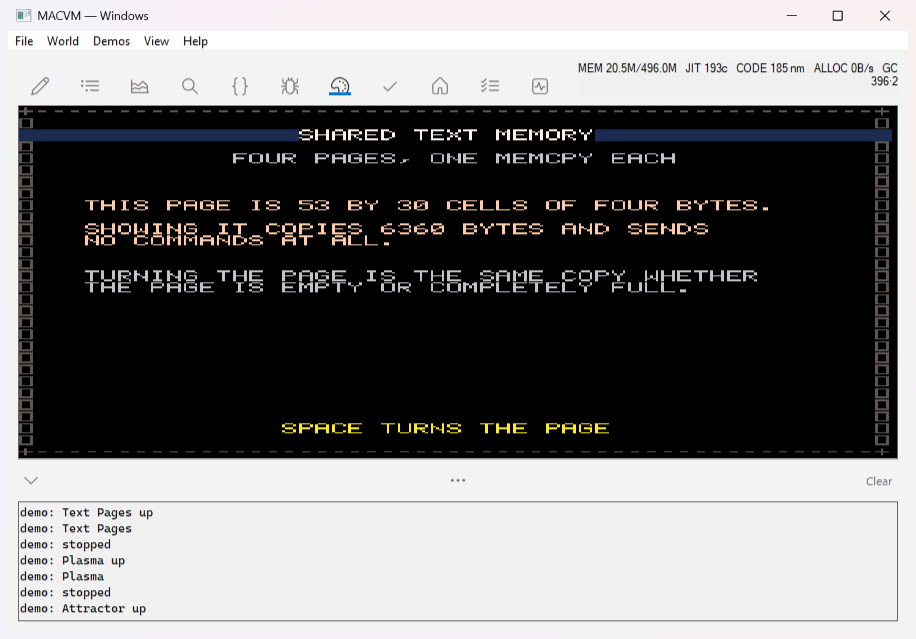
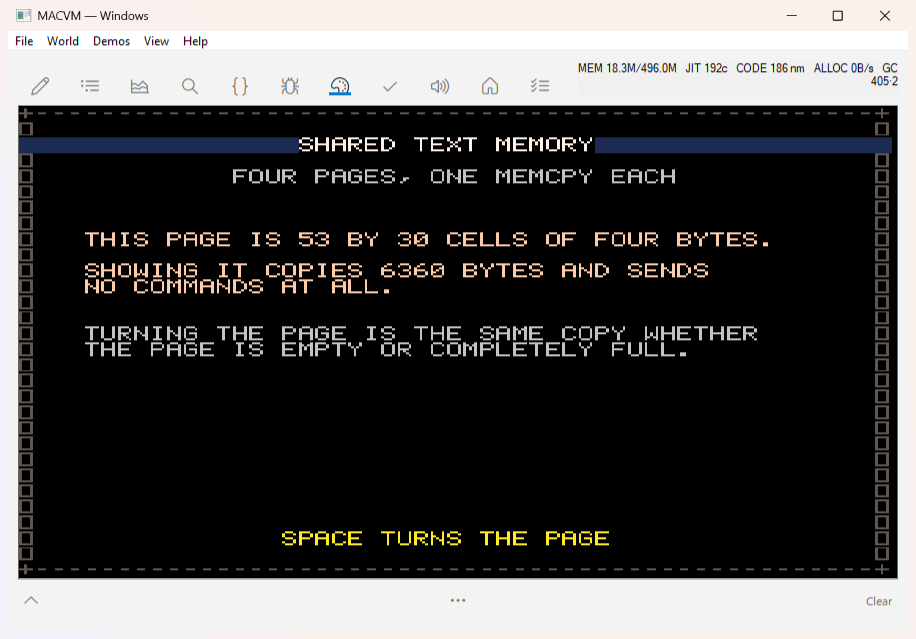
WG13: reset the pane properly, and make overscan mean something
Reported: demos start black, or in the corner of a larger pane, after the
previous one. Both true, and a third defect underneath them.

THE PANE IS NOW NEW AT EVERY LAUNCH. W13 wiped the layers but deliberately
kept the SIZE, reasoning that the pane is the console's screen rather than
the game's. That was wrong for this corpus: only two demos ask for a shape —
galaxigans wants 640x360, Plasma opens 320x240 direct — and every other one
draws for the DEFAULT pane without ever saying so. So after galaxigans, Life
laid an 80x60 grid meant for 320x240 across a 640x360 screen and sat in the
corner. The wipe now puts the shape back to 320x240 and the palette back to
the sixteen colours `GamePane new` installs (upstream's `defaultPalette`,
transcribed). The host seeds those as well as the guest because of the gap:
a wiped pane is on screen for however many frames pass before the new demo's
`GamePane new` runs, and an all-black palette makes that gap look like a
failure. Screen memory is dropped entirely rather than blanked, so a demo
that never opens a direct plane finds `screenMemory` nil exactly as it would
on a fresh pane.

AND `overscan:` NEVER WORKED. The arm stored the margin and returned;
nothing was reallocated. Minesweeper asks for a 16-pixel border, draws into a
352x272 buffer and blits it — so 352-wide rows were being copied into a
320-wide plane, and every row slipped 32 pixels further left than the one
[…]

diff --git a/win_gui/src/game.rs b/win_gui/src/game.rs
@@ -53,9 +53,15 @@ const DEF_H: u32 = 240;
 
 /// The frame the primary draws into and the pump uploads.
 pub struct GameFrame {
+    /// The WORLD's shape — what `indices` is, and what the guest draws into.
+    /// Equal to the viewport unless a game asked for `overscan:`.
     pub w: u32,
     pub h: u32,
-    /// One palette index per pixel, row-major, `w * h`.
+    /// The VIEWPORT's shape — what is actually shown. `scrollTo:x:y:` picks
+    /// which part of the world lands here.
+    pub view_w: u32,
+    pub view_h: u32,
+    /// One palette index per pixel, row-major, `w * h` — WORLD-sized.
     pub indices: Vec<u8>,
     /// 256 BGRA words — the renderer's format, so the upload is a memcpy.
     pub palette: Vec<u32>,
@@ -72,6 +78,8 @@ impl GameFrame {
         GameFrame {
             w,
             h,
+            view_w: w,
+            view_h: h,
             indices: vec![0u8; (w * h) as usize],
             // Opaque black, so an index nobody set is visibly empty rather
             // than whatever the allocator left behind.
@@ -79,6 +87,28 @@ impl GameFrame {
             text: TextOverlay::new(w, h),
             generation: 0,
         }
+    }
+
+    /// **`overscan:`** — grow the WORLD by `margin` pixels on every side while
+    /// the viewport stays as it is, so a game can scroll a picture larger than
+    /// the screen.
+    ///
+    /// THE PLANE IS REALLOCATED, and that is the whole of it. Storing the
+    /// margin and leaving the buffer alone is what broke Minesweeper for the
+    /// life of this port: it asks for a 16-pixel border, draws into a 352x272
+    /// buffer, and blits it — so 352-wide rows were being copied into a
+    /// 320-wide plane and every row slipped 32 pixels further left than the
+    /// one above it. The board sheared, and the numbers inside the tiles,
+    /// which are pixels and not text, sheared with it.
+    fn set_overscan(&mut self, margin: u32) {
+        let w = self.view_w + margin * 2;
+        let h = self.view_h + margin * 2;
+        if w == self.w && h == self.h {
+            return;
+        }
+        self.w = w;
+        self.h = h;
+        self.indices = vec![0u8; (w * h) as usize];
     }
 
     fn idx(&self, x: i64, y: i64) -> Option<usize> {
@@ -147,10 +177,14 @@ impl GameFrame {
         }
     }
 
+    /// `resizeTo:by:` — the VIEWPORT's shape, and with it the world's, since
+    /// a resize cancels any overscan (upstream rebuilds the pane).
     fn resize(&mut self, w: u32, h: u32) {
-        if w == self.w && h == self.h {
+        if w == self.w && h == self.h && w == self.view_w && h == self.view_h {
             return;
         }
+        self.view_w = w;
+        self.view_h = h;
         self.w = w;
         self.h = h;
         self.indices = vec![0u8; (w * h) as usize];
@@ -655,10 +689,8 @@ impl GameSink for WinGameSink {
                 crate::app::wake_ui_thread();
             }
             GameCommand::SetOverscan { margin } => {
-                // The WORLD grows; the viewport does not. The plane is
-                // reallocated at world size and the shader pans within it.
-                let (vw, vh) = (f.w, f.h);
-                let _ = (vw, vh);
+                // The WORLD grows; the viewport does not.
+                f.set_overscan(margin);
                 OVERSCAN.store(margin as usize, Ordering::Relaxed);
             }
             GameCommand::Scroll { x, y } => {
@@ -795,7 +827,19 @@ impl GameSink for WinGameSink {
 }
 
 /// Copy the current frame out for the pump. Answers `(w, h, indices, palette)`.
-pub fn take_frame() -> Option<(u32, u32, Vec<u8>, Vec<u32>, Option<Vec<u32>>)> {
+pub struct Upload {
+    /// The viewport — what the renderer's plane is sized to.
+    pub w: u32,
+    pub h: u32,
+    /// The world's width, which is `indices`' stride.
+    pub world_w: u32,
+    pub world_h: u32,
+    pub indices: Vec<u8>,
+    pub palette: Vec<u32>,
+    pub overlay: Option<Vec<u32>>,
+}
+
+pub fn take_frame() -> Option<Upload> {
     let presented = PRESENTED.load(Ordering::Acquire);
     if presented == UPLOADED.load(Ordering::Relaxed) {
         return None;
@@ -810,7 +854,15 @@ pub fn take_frame() -> Option<(u32, u32, Vec<u8>, Vec<u32>, Option<Vec<u32>>)> {
     } else {
         None
     };
-    Some((f.w, f.h, f.indices.clone(), f.palette.clone(), overlay))
+    Some(Upload {
+        w: f.view_w,
+        h: f.view_h,
+        world_w: f.w,
+        world_h: f.h,
+        indices: f.indices.clone(),
+        palette: f.palette.clone(),
+        overlay,
+    })
 }
 
 /// End the session host-side, the way the Mac's `close_window` does.
@@ -843,19 +895,52 @@ pub fn stop() {
     wipe_layers();
 }
 
-/// **W13: erase every layer**, so the next demo starts on a blank pane.
+/// Upstream's `#default` palette — `GamePane class >> defaultPalette`,
+/// transcribed, sixteen RGB triples that load from slot 16 up. Dark tones
+/// first, then the brights, so `GamePane white` and its friends name the same
+/// colour on every platform.
+///
+/// The HOST seeds these as well as the guest, and the reason is the gap: a
+/// wiped pane is shown for however many frames pass before the new demo's
+/// `GamePane new` runs, and an all-black palette makes that gap look like a
+/// failure. Seeding it makes a half-drawn first frame look like a game.
+const DEFAULT_PALETTE: [(u8, u8, u8); 16] = [
+    (0, 0, 0),         // 16 black
+    (29, 43, 83),      // 17 midnight
+    (126, 37, 83),     // 18 plum
+    (0, 135, 81),      // 19 forest
+    (171, 82, 54),     // 20 brown
+    (95, 87, 79),      // 21 dark grey
+    (194, 195, 199),   // 22 light grey
+    (255, 241, 232),   // 23 white
+    (255, 0, 77),      // 24 red
+    (255, 163, 0),     // 25 orange
+    (255, 236, 39),    // 26 yellow
+    (0, 228, 54),      // 27 green
+    (41, 173, 255),    // 28 blue
+    (131, 118, 156),   // 29 lavender
+    (255, 119, 168),   // 30 pink
+    (255, 204, 170),   // 31 peach
+];
+
+/// **W13: the pane, as new.** Every layer erased, the screen back to its
+/// default shape, and the palette back to the sixteen colours `GamePane new`
+/// installs — the state a demo is entitled to assume it is starting from.
 ///
 /// The Mac gets this for nothing: its pane is an object, `teardown()` drops the
-/// whole `NativeGame`, and sprites, both text layers and the shader go with it.
-/// Here the layers are process-lifetime statics — leaked deliberately, because
-/// the guest holds pointers into them — so "drop the pane" has to be spelled
-/// out, and until it was, a demo inherited its predecessor's screen: Plasma
-/// ran under Minesweeper's `MINES 32` and FreeCell's `DEAL/MOVES` row, three
-/// demos after either had exited.
+/// whole `NativeGame`, and sprites, both text layers, the shader, the size and
+/// the palette go with it. Here the layers are process-lifetime statics —
+/// leaked deliberately, because the guest holds pointers into them — so "drop
+/// the pane" has to be spelled out, and until it was, a demo inherited its
+/// predecessor's screen: Plasma ran under Minesweeper's `MINES 32` and
+/// FreeCell's `DEAL/MOVES` row, three demos after either had exited.
 ///
-/// Deliberately NOT reset here: the pane's SIZE. A demo that never calls
-/// `resizeTo:by:` runs at whatever the last one asked for, which is upstream's
-/// behaviour too — the pane is the console's screen, not the game's.
+/// THE SIZE IS PART OF IT, and leaving it out was wrong. Only two demos in the
+/// corpus ask for a shape — galaxigans wants 640x360, Plasma opens 320x240
+/// direct — and every other one draws for the DEFAULT pane without ever saying
+/// so. So after galaxigans, Life was laying an 80x60 grid meant for 320x240
+/// across a 640x360 screen. A demo that wants a different shape asks on its
+/// way in; a demo that says nothing must get the shape it was written for.
 fn wipe_layers() {
     OVERSCAN.store(0, Ordering::Relaxed);
     SCROLL_X.store(0, Ordering::Relaxed);
@@ -864,6 +949,19 @@ fn wipe_layers() {
     // the next demo — galaxigans asks for 30 and everything else wants 60.
     FPS.store(60, Ordering::Relaxed);
     let _ = with_sprites(|v| v.clear());
+
+    // SCREEN MEMORY GOES ENTIRELY, not just blank. A demo that never opens a
+    // direct plane must find `screenMemory` nil, exactly as it would on a
+    // fresh pane — and the next `openDirect:` then allocates at its own size
+    // rather than inheriting the last one's stride.
+    if let Ok(mut g) = DIRECT.lock() {
+        *g = None;
+    }
+    macvm::embed::clear_screen_memory();
+
+    // Zeroed FIRST and resized after: `open_text_plane`/`open_palette` answer
+    // early when the shape already matches, so the fill is what clears a plane
+    // that is not changing shape, and a reallocation zeroes the rest.
     if let Ok(mut g) = TEXTP.lock() {
         if let Some(t) = g.as_mut() {
             t.cells.fill(0);
@@ -874,17 +972,18 @@ fn wipe_layers() {
             p.bytes.fill(0);
         }
     }
-    if let Ok(mut g) = DIRECT.lock() {
-        if let Some(d) = g.as_mut() {
-            for b in d.bufs.iter_mut() {
-                b.fill(0);
-            }
-        }
-    }
+    open_text_plane(DEF_W, DEF_H);
+    open_palette(DEF_H);
+
     if let Ok(mut f) = shared().lock() {
         f.text.clear();
+        f.resize(DEF_W, DEF_H);
         f.indices.fill(0);
         f.palette.fill(0xFF00_0000);
+        for (i, (r, g, b)) in DEFAULT_PALETTE.iter().enumerate() {
+            f.palette[16 + i] =
+                0xFF00_0000 | ((*r as u32) << 16) | ((*g as u32) << 8) | *b as u32;
+        }
         // One more generation, so the pump uploads the blank frame rather than
         // leaving the last game's picture on screen until the next one draws.
         f.generation += 1;
@@ -896,7 +995,7 @@ fn wipe_layers() {
 pub fn pane_size() -> (u32, u32) {
     shared()
         .lock()
-        .map(|f| (f.w, f.h))
+        .map(|f| (f.view_w, f.view_h))
         .unwrap_or((DEF_W, DEF_H))
 }
 
@@ -1004,15 +1103,45 @@ fn render_api() -> Option<&'static RenderApi> {
 /// frame was shown.
 ///
 /// Called from the pump between dispatches, never from a wndproc.
+/// Copy the viewport-sized window out of a world-sized index buffer, offset by
+/// the current scroll and clamped to the world's edges.
+///
+/// The no-overscan case — every game but Minesweeper — is the whole buffer at
+/// offset zero, and is short-circuited to the clone it always was.
+fn crop_world(world: &[u8], ww: u32, wh: u32, vw: u32, vh: u32) -> Vec<u8> {
+    if ww == vw && wh == vh {
+        return world.to_vec();
+    }
+    let sx = SCROLL_X.load(Ordering::Relaxed).min(ww.saturating_sub(vw) as usize);
+    let sy = SCROLL_Y.load(Ordering::Relaxed).min(wh.saturating_sub(vh) as usize);
+    let (ww, vw, vh) = (ww as usize, vw as usize, vh as usize);
+    let mut out = vec![0u8; vw * vh];
+    for y in 0..vh {
+        let src = (sy + y) * ww + sx;
+        if src + vw <= world.len() {
+            out[y * vw..(y + 1) * vw].copy_from_slice(&world[src..src + vw]);
+        }
+    }
+    out
+}
+
 #[allow(unsafe_code)]
 pub fn upload_and_present(hwnd: i64) -> bool {
     if hwnd == 0 {
         return false;
     }
     let Some(api) = render_api() else { return false };
-    let Some((w, h, indices, palette, overlay)) = take_frame() else {
+    let Some(up) = take_frame() else {
         return false;
     };
+    let (w, h) = (up.w, up.h);
+    let (palette, overlay) = (up.palette, up.overlay);
+    // THE CROP. `indices` is the WORLD; the plane is the VIEWPORT. With no
+    // overscan the two are the same shape and this is the memcpy it always
+    // was; with overscan it is the pan, done here rather than in the shader
+    // because the copper keys off the SCREEN row and cropping first is what
+    // makes the screen row the destination row without any further arithmetic.
+    let indices = crop_world(&up.indices, up.world_w, up.world_h, w, h);
     let any_sprites = with_sprites(|v| v.iter().any(|(_, sp)| sp.visible)).unwrap_or(false);
     if overlay.is_some() || text_cells().is_some() || any_sprites {
         // Either text layer means RGB over indices, so the direct path.
@@ -1080,11 +1209,9 @@ pub fn upload_and_present(hwnd: i64) -> bool {
             let copper = effective_copper(h, &palette, shader_live);
             if copper.is_some() {
                 (api.make_copper)(hwnd);
-                (api.scroll)(
-                    hwnd,
-                    SCROLL_X.load(Ordering::Relaxed) as i64,
-                    SCROLL_Y.load(Ordering::Relaxed) as i64,
-                );
+                // ZERO, deliberately: `crop_world` has already applied the
+                // scroll, and the shader adding it again would pan twice.
+                (api.scroll)(hwnd, 0, 0);
             }
             let pal = (api.palette)(hwnd);
             if pal == 0 {
@@ -1184,4 +1311,72 @@ pub fn install(vm: &mut macvm::embed::VmHandle) {
     open_text_plane(DEF_W, DEF_H);
     open_palette(DEF_H);
     vm.set_game_sink(Box::new(WinGameSink));
+}
+
+#[cfg(test)]
+mod tests {
+    use super::*;
+
+    /// WG13: the crop is what makes `overscan:` mean anything, and Minesweeper
+    /// is the game that proves it — a 16-pixel border, so a 352x272 world
+    /// behind a 320x240 screen. Before this existed the world's rows were
+    /// copied straight into the viewport and each one slipped 32 pixels.
+    #[test]
+    fn the_crop_takes_a_window_out_of_the_world_at_the_scroll() {
+        // A 6x4 world whose every pixel names its own row, so a row landing in
+        // the wrong place is visible as a value rather than as a shift.
+        let mut world = vec![0u8; 6 * 4];
+        for y in 0..4usize {
+            for x in 0..6usize {
+                world[y * 6 + x] = (y * 10 + x) as u8;
+            }
+        }
+        SCROLL_X.store(1, Ordering::Relaxed);
+        SCROLL_Y.store(1, Ordering::Relaxed);
+        let out = crop_world(&world, 6, 4, 4, 2);
+        assert_eq!(out.len(), 8, "the window is the VIEWPORT's size");
+        assert_eq!(&out[0..4], &[11, 12, 13, 14], "row 0 comes from world row 1");
+        assert_eq!(&out[4..8], &[21, 22, 23, 24], "and row 1 from world row 2");
+    }
+
+    /// The scroll cannot walk off the edge: a game that asks for more than the
+    /// border has gets the border's limit, not a torn read.
+    #[test]
+    fn the_crop_clamps_at_the_worlds_edge() {
+        let world = vec![7u8; 6 * 4];
+        SCROLL_X.store(999, Ordering::Relaxed);
+        SCROLL_Y.store(999, Ordering::Relaxed);
+        let out = crop_world(&world, 6, 4, 4, 2);
+        assert_eq!(out, vec![7u8; 8], "clamped, and every pixel still read");
+    }
+
+    /// No overscan is the common case and must stay a straight copy — every
+    /// game but Minesweeper takes this path every frame.
+    #[test]
+    fn without_overscan_the_crop_is_the_whole_buffer() {
+        let world: Vec<u8> = (0..24u8).collect();
+        SCROLL_X.store(3, Ordering::Relaxed);
+        SCROLL_Y.store(3, Ordering::Relaxed);
+        assert_eq!(
+            crop_world(&world, 6, 4, 6, 4),
+            world,
+            "same shape means the scroll is not applied at all"
+        );
+        SCROLL_X.store(0, Ordering::Relaxed);
+        SCROLL_Y.store(0, Ordering::Relaxed);
+    }
+
+    /// `overscan:` grows the WORLD and leaves the viewport alone; a later
+    /// `resizeTo:by:` cancels it, which is how the wipe puts a pane back.
+    #[test]
+    fn overscan_grows_the_world_and_a_resize_cancels_it() {
+        let mut f = GameFrame::new(320, 240);
+        f.set_overscan(16);
+        assert_eq!((f.w, f.h), (352, 272), "the world takes the border");
+        assert_eq!((f.view_w, f.view_h), (320, 240), "the screen does not");
+        assert_eq!(f.indices.len(), 352 * 272, "and the plane is world-sized");
+        f.resize(320, 240);
+        assert_eq!((f.w, f.h), (320, 240), "a resize cancels the overscan");
+        assert_eq!(f.indices.len(), 320 * 240);
+    }
 }
